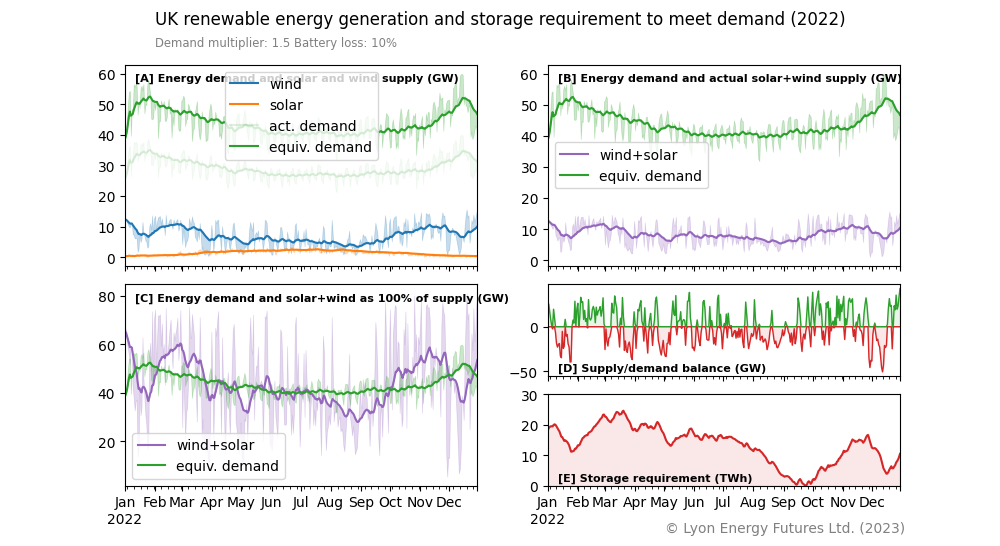
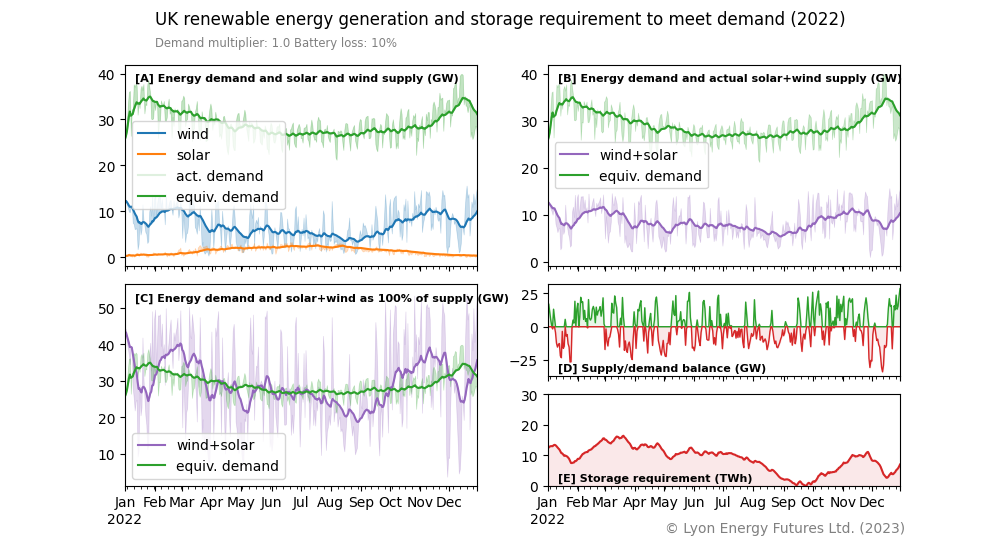
reset multipler

diff --git a/renewable_cost/main.py b/renewable_cost/main.py
@@ -140,7 +140,7 @@ if __name__ == "__main__":
     battery_cost_kwh = 200
 
     # the factor by which electricity demand increases after substituting for hydrocarbon
-    demand_multiplier = 1.5
+    demand_multiplier = 1.0
 
     # battery loss over a charge/discharge cycle
     battery_loss = 0.1
